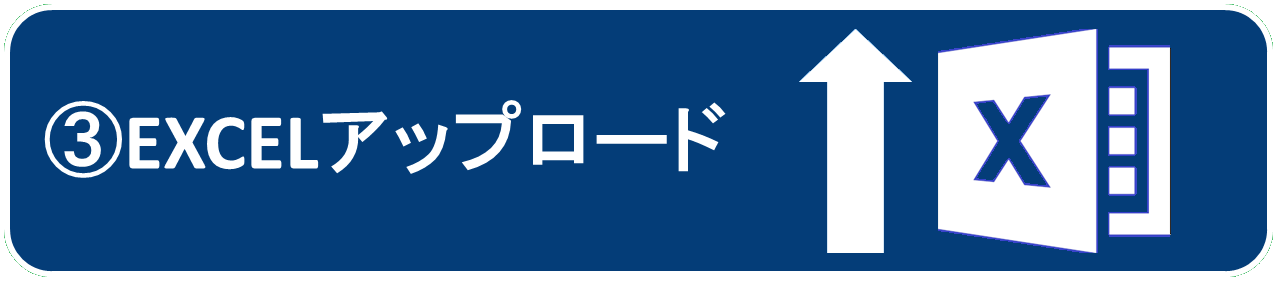
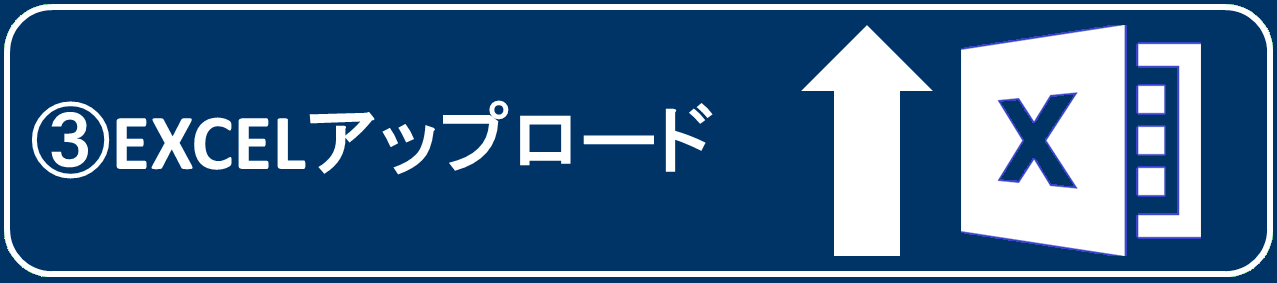
各種アイコンの修正

diff --git a/src/components/ExcelForm.tsx b/src/components/ExcelForm.tsx
@@ -1,4 +1,5 @@
 import download from "../../icons/download.png"
+import message from "../../icons/message.png"
 import upload from "../../icons/upload.png"
 import "./button.css"
 
@@ -16,6 +17,7 @@ export function ExcelForm(){
             <form>
                 <p>
                 <input type="image" src={download} className="excelForm" onClick={getExcel}></input>
+                <input type="image" src={message} className="excelForm"></input>
                 <input type="image" src={upload} className="excelForm" onClick={sendExcel}></input>
                 </p>
             </form>

diff --git a/src/index.css b/src/index.css
@@ -6,7 +6,7 @@
 
   color-scheme: light dark;
   color: rgba(255, 255, 255, 0.87);
-  background-color: #273870;
+  background-color: #003366;
 
   font-synthesis: none;
   text-rendering: optimizeLegibility;

diff --git a/src/components/button.css b/src/components/button.css
@@ -4,6 +4,6 @@
 }
 
 .excelForm{
-    width : 1000ox;
-    height : 222px;
+    width : 950ox;
+    height : 211px;
 }
